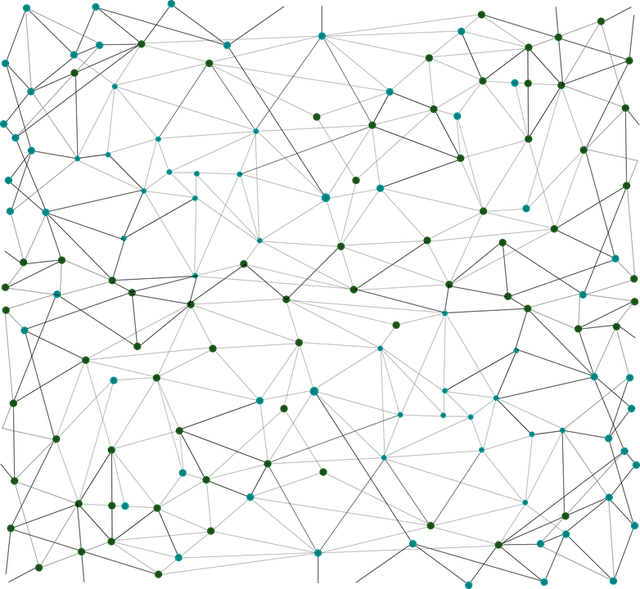
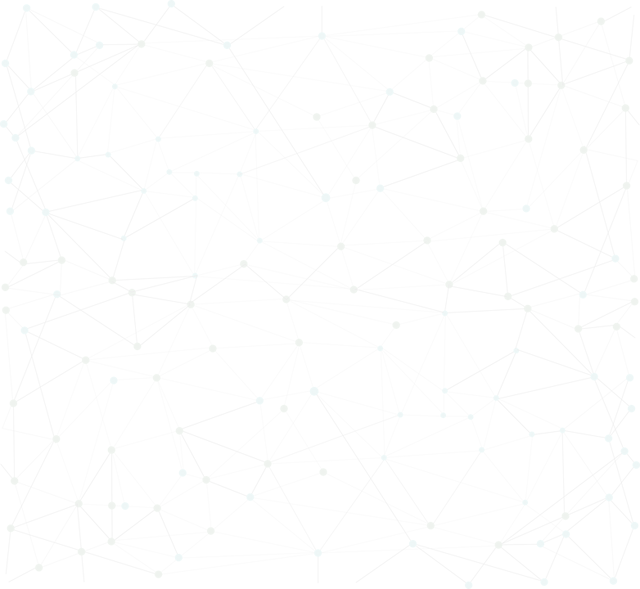
fixed the listing feature all passing

diff --git a/app/assets/stylesheets/application.css.scss b/app/assets/stylesheets/application.css.scss
@@ -23,22 +23,12 @@
  @import 'chosen';
 
 body {
-font-family: 'Lato';
-margin: 1em;
-position: relative;
-}
-
-body::after {
-  content: "";
+  font-family: 'Lato';  
+  width: 100%;
+  height: 100%;
   background: url(nodes.png);
-  // background-repeat: repeat; 
-  opacity: 0.09;
-  top: 3em;
-  left: 0;
-  bottom: 0;
-  right: 0;
-  position: absolute;
-  z-index: -1;   
+  padding-left: 1em;
+  padding-right: 1em;
 }
 
 html {
@@ -83,7 +73,7 @@ label {
 }
 
 .new-account-form {
-  width: 40%;
+  width: 30%;
   margin-left: 1em;
 }
 
@@ -164,7 +154,10 @@ h3, h4 {
 }
 
 #nav {
-  margin-bottom: 2em;
+  margin-bottom: 3em;
+  background-color: white;
+  padding-top: 0.5em;
+  padding-bottom: 0.5em;
 }
 
 .form-inputs {
@@ -265,9 +258,9 @@ h3, h4 {
 }
 
 .other-listings-wrapper {
-  // display: block;
   margin-top: 25em;
-  // position: absolute;
+  margin-left: 10em;
+  margin-right: 10em;
 }
 
 

diff --git a/features/step_definitions/listing_steps.rb b/features/step_definitions/listing_steps.rb
@@ -1,15 +1,20 @@
+Given("there are some categories") do
+  Category.create!(name: "Synths")
+end
+
 Given("they are on the home page") do
   visit root_path
 end
 
 When("they click list item") do
-  click_on "List item"
+  click_on "List Item"
 end
 
 When("they fill out the details") do
   fill_in "Item name", with: "Prophet 6"
   fill_in "Daily price", with: 100.00
-  select "Synths", :from => "item_category"
+  fill_in "Weekly price", with: 500.00
+  select "Synths", :from => "item_category_id"
 end
 
 When("they upload photos of the item") do
@@ -20,17 +25,17 @@ When("they click the create item button") do
   click_button "Create Item"
 end
 
-Then("the item is saved to the database") do
-  expect(Item.last.item_name).to eq 'Prophet 6'
-  expect(Item.last.category).to eq 'Synths'
+Then("they are taken to the item page") do
+  expect(page).to have_content("Prophet 6")
 end
 
 Then("they see a flash notice that confirms that they have listed an item") do
   expect(page).to have_content("Congratulations you have successfully listed an item.")
 end
 
-Then("they are taken to the item page") do
-  expect(page).to have_content("Prophet 6")
+Then("the item is saved to the database") do
+  expect(Item.last.item_name).to eq 'Prophet 6'
+  expect(Item.last.daily_price).to eq 100.00
 end
 
 

diff --git a/app/controllers/items_controller.rb b/app/controllers/items_controller.rb
@@ -34,8 +34,7 @@ class ItemsController < ApplicationController
   end
 
   def show
-    # @locations = Account.select(:location).map(&:location)
-    @listings = Item.where(:user_id => @item.user_id).order("created_at DESC")
+    @listings = Item.where(:user_id => @item.user_id).reject { |attr| attr == @item }
   end
 
   def edit
